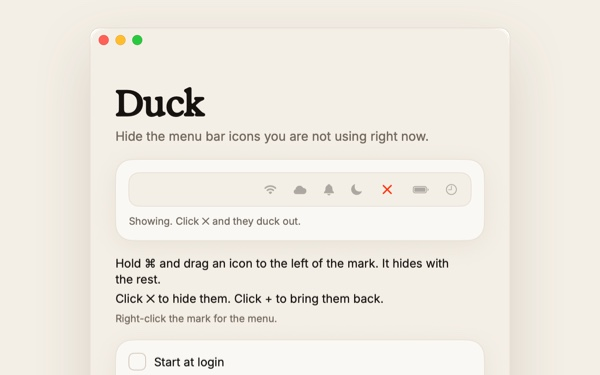
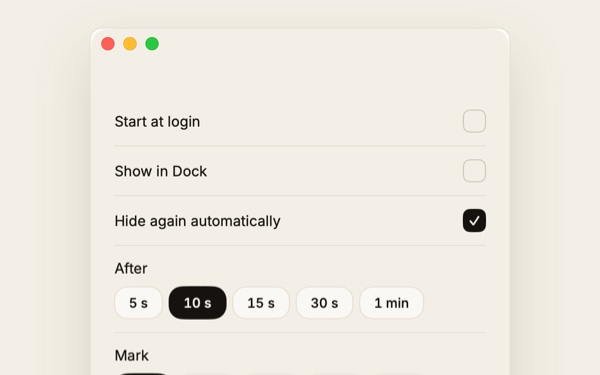
Duck 1.4.1: the window is the approved layout, rows and a foot
The preferences window is now the design Swayam approved: nothing above
the rows. Start at login, Show in Dock, Hide again automatically, the After
chips and the Mark chips, each a hairline apart, set like a ledger. At the
foot the duck, Duck as the way to the site, the version, and Quit. The
headline, the tagline, the demo bar and the how-to lines are gone from the
window; the page and the README carry them. Chips take the window's 12
point corners and the card fill. The window opens at 380 by 440 under a new
autosave name so the old, taller frame is not restored. The bundle carries
duck.svg for the foot. Version 1.4.1, build 9. Every picture that shows the
window is remade, and the link preview goes to v=5.

diff --git a/src/ui/PreferencesView.swift b/src/ui/PreferencesView.swift
@@ -1,8 +1,8 @@
 import SwiftUI
 import DuckCore
 
-/// The look: cream paper, ink text, one orange. Exposure for the words that set the room,
-/// Inter for the rest. Soft cards, round corners, a spring on everything that moves.
+/// The look: cream paper, ink text. Exposure for the name, Inter for the rest. Rows a
+/// hairline apart, chips with soft corners, a spring on everything that moves.
 enum Ink {
     static let paper = Color(red: 0.957, green: 0.937, blue: 0.902)
     static let card = Color(red: 0.984, green: 0.973, blue: 0.953)
@@ -32,39 +32,19 @@ struct PreferencesView: View {
     }
 
     var body: some View {
-        VStack(alignment: .leading, spacing: 18) {
-            VStack(alignment: .leading, spacing: 4) {
-                Text("Duck")
-                    .font(Type.serif(42))
-                Text("Hide the menu bar icons you are not using right now.")
-                    .font(Type.sans(15))
-                    .foregroundStyle(Ink.muted)
-            }
-
-            Card {
-                MenuBarDemo(style: preferences.markStyle)
-            }
-
-            VStack(alignment: .leading, spacing: 6) {
-                Text("Hold ⌘ and drag an icon to the left of the mark. It hides with the rest.")
-                Text("Click ✕ to hide them. Click + to bring them back.")
-                Text("Right-click the mark for the menu.")
-                    .font(Type.sans(12))
-                    .foregroundStyle(Ink.muted)
-                    .padding(.top, 2)
-            }
-            .font(Type.sans(14))
-            .lineSpacing(2)
-            .fixedSize(horizontal: false, vertical: true)
-
-            Card {
-                VStack(alignment: .leading, spacing: 10) {
-                    Toggle("Start at login", isOn: launchBinding)
-                    if let message = login.message {
-                        note(message)
-                    }
-                    Toggle("Show in Dock", isOn: $preferences.showInDock)
-                    Toggle("Hide again automatically", isOn: $preferences.autoHide)
+        VStack(spacing: 0) {
+            // The rows. Each one a hairline apart, the way a ledger is set.
+            VStack(spacing: 0) {
+                row("Start at login") { Toggle(isOn: launchBinding) { EmptyView() } }
+                if let message = login.message {
+                    note(message)
+                }
+                rule
+                row("Show in Dock") { Toggle(isOn: $preferences.showInDock) { EmptyView() } }
+                rule
+                row("Hide again automatically") { Toggle(isOn: $preferences.autoHide) { EmptyView() } }
+                rule
+                stack("After") {
                     HStack(spacing: 6) {
                         ForEach(Preferences.autoHideChoices, id: \.self) { seconds in
                             Chip(label(for: seconds), selected: preferences.autoHideSeconds == seconds) {
@@ -72,58 +52,98 @@ struct PreferencesView: View {
                             }
                         }
                     }
-                    .padding(.leading, 30)
                     .opacity(preferences.autoHide ? 1 : 0.35)
                     .disabled(!preferences.autoHide)
                     .animation(Ink.spring, value: preferences.autoHide)
-
-                    // The mark's look: each chip shows its hidden shape and its showing shape.
+                }
+                rule
+                stack("Mark") {
                     HStack(spacing: 6) {
-                        Text("Mark")
-                            .padding(.trailing, 4)
                         ForEach(MarkStyle.allCases, id: \.self) { style in
                             MarkChip(style: style, selected: preferences.markStyle == style) {
                                 withAnimation(Ink.spring) { preferences.markStyle = style }
                             }
                         }
                     }
-                    .padding(.top, 4)
                 }
-                .toggleStyle(Check())
             }
+            .toggleStyle(Check())
+            .padding(.horizontal, 22)
+            .padding(.top, 34)
 
-            HStack(spacing: 16) {
-                Text("Duck \(version)")
-                    .monospacedDigit()
-                Link("GitHub", destination: URL(string: "https://github.com/hellodigitworks/Duck")!)
+            Spacer(minLength: 14)
+
+            // The foot: the duck, its name (the way to the site), its version. Quit.
+            rule
+            HStack(spacing: 9) {
+                if let duck = Self.duck {
+                    Image(nsImage: duck)
+                        .resizable()
+                        .aspectRatio(contentMode: .fit)
+                        .frame(width: 24, height: 22)
+                }
+                Link("Duck", destination: URL(string: "https://duck.hellodigitworks.com")!)
+                    .font(Type.serif(17))
+                    .foregroundStyle(Ink.text)
+                    .underline(true, color: Ink.edge)
                     .focusable(false)
+                Text(version)
+                    .font(Type.sans(12))
+                    .foregroundStyle(Ink.muted)
+                    .monospacedDigit()
                 if let newer = updates.newer {
-                    Link("Duck \(newer.version) is out. Download", destination: newer.url)
+                    Link("\(newer.version) is out", destination: newer.url)
                         .font(Type.medium(12))
                         .foregroundStyle(Ink.text)
                         .underline()
                         .focusable(false)
                 }
                 Spacer()
-                Button("Quit Duck") { NSApp.terminate(nil) }
-                    .buttonStyle(Outline())
+                Button("Quit") { NSApp.terminate(nil) }
+                    .buttonStyle(.plain)
+                    .font(Type.medium(12.5))
+                    .foregroundStyle(Ink.text)
                     .focusable(false)
             }
-            .font(Type.sans(12))
-            .foregroundStyle(Ink.muted)
+            .padding(.horizontal, 22)
+            .padding(.vertical, 13)
         }
-        .font(Type.sans(14))
+        .font(Type.sans(13))
         .foregroundStyle(Ink.text)
         .tint(Ink.text)
-        .padding(.top, 34)
-        .padding(.horizontal, 30)
-        .padding(.bottom, 24)
-        // One block, no wider than a comfortable line, sitting in the middle of whatever
-        // size the window is. Grow the window and the block just gets more room around it.
-        .frame(maxWidth: 620)
-        .frame(minWidth: 440, maxWidth: .infinity, minHeight: 600, maxHeight: .infinity, alignment: .center)
+        .frame(minWidth: 360, maxWidth: .infinity, minHeight: 400, maxHeight: .infinity, alignment: .top)
         .background(Ink.paper)
         .onAppear { login.refresh() }
+    }
+
+    /// The duck, from the bundle. Drawn by the same file the icon comes from.
+    private static let duck: NSImage? = {
+        guard let url = Bundle.main.url(forResource: "duck", withExtension: "svg") else { return nil }
+        return NSImage(contentsOf: url)
+    }()
+
+    private var rule: some View {
+        Rectangle().fill(Ink.line).frame(height: 1)
+    }
+
+    /// A label on the left, its control on the right.
+    private func row<Control: View>(_ label: String, @ViewBuilder control: () -> Control) -> some View {
+        HStack(spacing: 12) {
+            Text(label)
+            Spacer(minLength: 0)
+            control()
+        }
+        .padding(.vertical, 12)
+    }
+
+    /// A label, then its chips beneath it.
+    private func stack<Content: View>(_ label: String, @ViewBuilder content: () -> Content) -> some View {
+        VStack(alignment: .leading, spacing: 9) {
+            Text(label)
+            content()
+        }
+        .frame(maxWidth: .infinity, alignment: .leading)
+        .padding(.vertical, 12)
     }
 
     private var launchBinding: Binding<Bool> {
@@ -140,71 +160,8 @@ struct PreferencesView: View {
         Text(text)
             .font(Type.sans(12))
             .foregroundStyle(Ink.muted)
-            .padding(.leading, 30)
+            .padding(.bottom, 10)
             .fixedSize(horizontal: false, vertical: true)
-    }
-}
-
-// MARK: - The demo
-
-/// A small menu bar that plays what Duck does: the icons left of the mark slide away and
-/// the ✕ turns into a plus, then they come back. Stands still when Reduce Motion is on.
-struct MenuBarDemo: View {
-    let style: MarkStyle
-    @StateObject private var state = Flag()
-    private var ducked: Bool { state.on }
-    private let hiding = ["wifi", "cloud.fill", "bell.fill", "moon.fill"]
-    private let staying = ["battery.100", "clock"]
-    private let still = NSWorkspace.shared.accessibilityDisplayShouldReduceMotion
-
-    var body: some View {
-        VStack(alignment: .leading, spacing: 10) {
-            HStack(spacing: 0) {
-                Spacer(minLength: 0)
-                icons(hiding)
-                    .offset(x: ducked ? -150 : 0)
-                    .opacity(ducked ? 0 : 1)
-                    .padding(.trailing, 20)
-                Image(nsImage: Mark.image(style: style, fraction: ducked ? 0 : 1))
-                    .renderingMode(.template)
-                    .foregroundStyle(Ink.accent)
-                    .id("\(style.rawValue)-\(ducked)")
-                    .transition(.opacity)
-                icons(staying)
-                    .padding(.leading, 20)
-            }
-            .padding(.horizontal, 16)
-            .frame(height: 40)
-            .background(RoundedRectangle(cornerRadius: 12, style: .continuous).fill(Ink.paper))
-            .clipShape(RoundedRectangle(cornerRadius: 12, style: .continuous))
-            .overlay(RoundedRectangle(cornerRadius: 12, style: .continuous).stroke(Ink.line, lineWidth: 1))
-
-            Text(ducked ? "Hidden. Click + and they are back." : "Showing. Click ✕ and they duck out.")
-                .font(Type.sans(12))
-                .foregroundStyle(Ink.muted)
-                .contentTransition(.opacity)
-                .animation(.easeInOut(duration: 0.3), value: ducked)
-        }
-        .task { await play() }
-    }
-
-    private func icons(_ names: [String]) -> some View {
-        HStack(spacing: 18) {
-            ForEach(names, id: \.self) { name in
-                Image(systemName: name)
-                    .font(.system(size: 13))
-                    .foregroundStyle(Ink.text.opacity(0.32))
-            }
-        }
-    }
-
-    private func play() async {
-        guard !still else { return }
-        while !Task.isCancelled {
-            try? await Task.sleep(for: .seconds(2.2))
-            guard !Task.isCancelled else { return }
-            withAnimation(.spring(response: 0.55, dampingFraction: 0.8)) { state.on.toggle() }
-        }
     }
 }
 
@@ -223,11 +180,11 @@ struct MarkChip: View {
                 glyph(0)
                 glyph(1)
             }
-            .padding(.horizontal, 9)
-            .padding(.vertical, 5)
-            .background(Capsule().fill(selected ? Ink.text : Color.clear))
-            .overlay(Capsule().stroke(selected ? Ink.text : (hovering ? Ink.text : Ink.edge), lineWidth: 1))
-            .contentShape(Capsule())
+            .padding(.horizontal, 10)
+            .padding(.vertical, 6)
+            .background(RoundedRectangle(cornerRadius: 12, style: .continuous).fill(selected ? Ink.text : Ink.card))
+            .overlay(RoundedRectangle(cornerRadius: 12, style: .continuous).stroke(selected ? Ink.text : (hovering ? Ink.text : Ink.line), lineWidth: 1))
+            .contentShape(RoundedRectangle(cornerRadius: 12, style: .continuous))
             .scaleEffect(hovering && !selected ? 1.04 : 1)
         }
         .buttonStyle(.plain)
@@ -248,23 +205,6 @@ struct MarkChip: View {
 }
 
 // MARK: - Surfaces and controls
-
-/// A soft card: a shade lighter than the paper, a hairline, a shadow you feel more than see.
-struct Card<Content: View>: View {
-    @ViewBuilder var content: Content
-
-    var body: some View {
-        content
-            .padding(16)
-            .frame(maxWidth: .infinity, alignment: .leading)
-            .background(
-                RoundedRectangle(cornerRadius: 20, style: .continuous)
-                    .fill(Ink.card)
-                    .shadow(color: Ink.shadow, radius: 14, y: 6)
-            )
-            .overlay(RoundedRectangle(cornerRadius: 20, style: .continuous).stroke(Ink.line, lineWidth: 1))
-    }
-}
 
 /// A checkbox: an outlined square that fills with ink when it is on.
 struct Check: ToggleStyle {
@@ -294,7 +234,7 @@ struct Check: ToggleStyle {
     }
 }
 
-/// A round chip. Ink-filled when it is the one picked.
+/// A chip with the window's 12 point corners. Ink-filled when it is the one picked.
 struct Chip: View {
     let title: String
     let selected: Bool
@@ -313,12 +253,12 @@ struct Chip: View {
             Text(title)
                 .font(Type.medium(12))
                 .monospacedDigit()
-                .foregroundStyle(selected ? Ink.paper : Ink.muted)
-                .padding(.horizontal, 11)
-                .padding(.vertical, 5)
-                .background(Capsule().fill(selected ? Ink.text : Color.clear))
-                .overlay(Capsule().stroke(selected ? Ink.text : (hovering ? Ink.text : Ink.edge), lineWidth: 1))
-                .contentShape(Capsule())
+                .foregroundStyle(selected ? Ink.paper : Ink.text)
+                .padding(.horizontal, 13)
+                .padding(.vertical, 7)
+                .background(RoundedRectangle(cornerRadius: 12, style: .continuous).fill(selected ? Ink.text : Ink.card))
+                .overlay(RoundedRectangle(cornerRadius: 12, style: .continuous).stroke(selected ? Ink.text : (hovering ? Ink.text : Ink.line), lineWidth: 1))
+                .contentShape(RoundedRectangle(cornerRadius: 12, style: .continuous))
                 .scaleEffect(hovering && !selected ? 1.04 : 1)
         }
         .buttonStyle(.plain)

diff --git a/src/ui/PreferencesWindowController.swift b/src/ui/PreferencesWindowController.swift
@@ -9,7 +9,7 @@ final class PreferencesWindowController: NSWindowController {
 
     private init() {
         let window = NSWindow(
-            contentRect: NSRect(x: 0, y: 0, width: 500, height: 620),
+            contentRect: NSRect(x: 0, y: 0, width: 380, height: 440),
             styleMask: [.titled, .closable, .miniaturizable, .resizable, .fullSizeContentView],
             backing: .buffered,
             defer: false)
@@ -20,12 +20,12 @@ final class PreferencesWindowController: NSWindowController {
         window.backgroundColor = NSColor(red: 0.957, green: 0.937, blue: 0.902, alpha: 1)
         window.isMovableByWindowBackground = true
         window.isReleasedWhenClosed = false
-        // Small enough for a laptop, never so small that a line has to break twice.
-        window.contentMinSize = NSSize(width: 440, height: 600)
+        // Small: the rows and the foot, nothing else.
+        window.contentMinSize = NSSize(width: 360, height: 400)
         window.contentViewController = NSHostingController(
             rootView: PreferencesView(preferences: .shared, login: LoginItemModel(), updates: .shared))
-        window.setContentSize(NSSize(width: 500, height: 620))
-        window.setFrameAutosaveName("DuckPreferences")
+        window.setContentSize(NSSize(width: 380, height: 440))
+        window.setFrameAutosaveName("DuckPreferences2") // a new name, so the old, taller frame is not restored
         super.init(window: window)
     }
 
@@ -36,7 +36,7 @@ final class PreferencesWindowController: NSWindowController {
 
     func show() {
         guard let window else { return }
-        if !window.isVisible, !window.setFrameUsingName("DuckPreferences") {
+        if !window.isVisible, !window.setFrameUsingName("DuckPreferences2") {
             window.center()
         }
         NSApp.activate(ignoringOtherApps: true)

diff --git a/site/index.html b/site/index.html
@@ -21,13 +21,13 @@
   <meta property="og:title" content="Duck" />
   <meta property="og:description" content="Hides the menu bar icons you are not using right now. A small, free Mac app." />
   <meta property="og:url" content="https://duck.hellodigitworks.com/" />
-  <meta property="og:image" content="https://duck.hellodigitworks.com/images/og.png?v=4" />
+  <meta property="og:image" content="https://duck.hellodigitworks.com/images/og.png?v=5" />
   <meta property="og:image:width" content="1200" />
   <meta property="og:image:height" content="630" />
   <meta name="twitter:card" content="summary_large_image" />
   <meta name="twitter:title" content="Duck" />
   <meta name="twitter:description" content="Hides the menu bar icons you are not using right now. A small, free Mac app." />
-  <meta name="twitter:image" content="https://duck.hellodigitworks.com/images/og.png?v=4" />
+  <meta name="twitter:image" content="https://duck.hellodigitworks.com/images/og.png?v=5" />
 
   <link rel="icon" href="images/favicon.svg?v=3" type="image/svg+xml" />
   <link rel="icon" href="images/favicon-32.png?v=3" sizes="32x32" type="image/png" />
